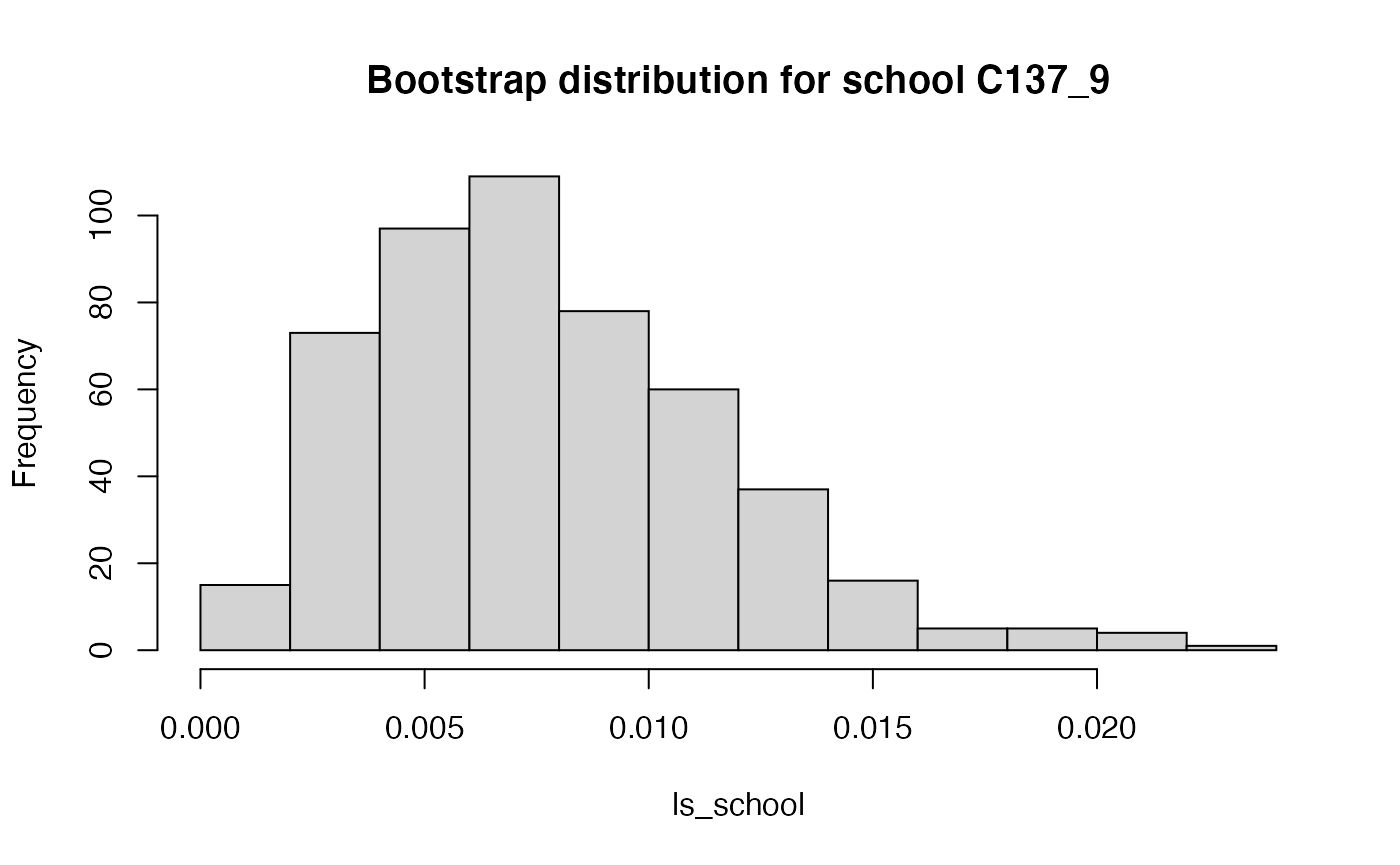
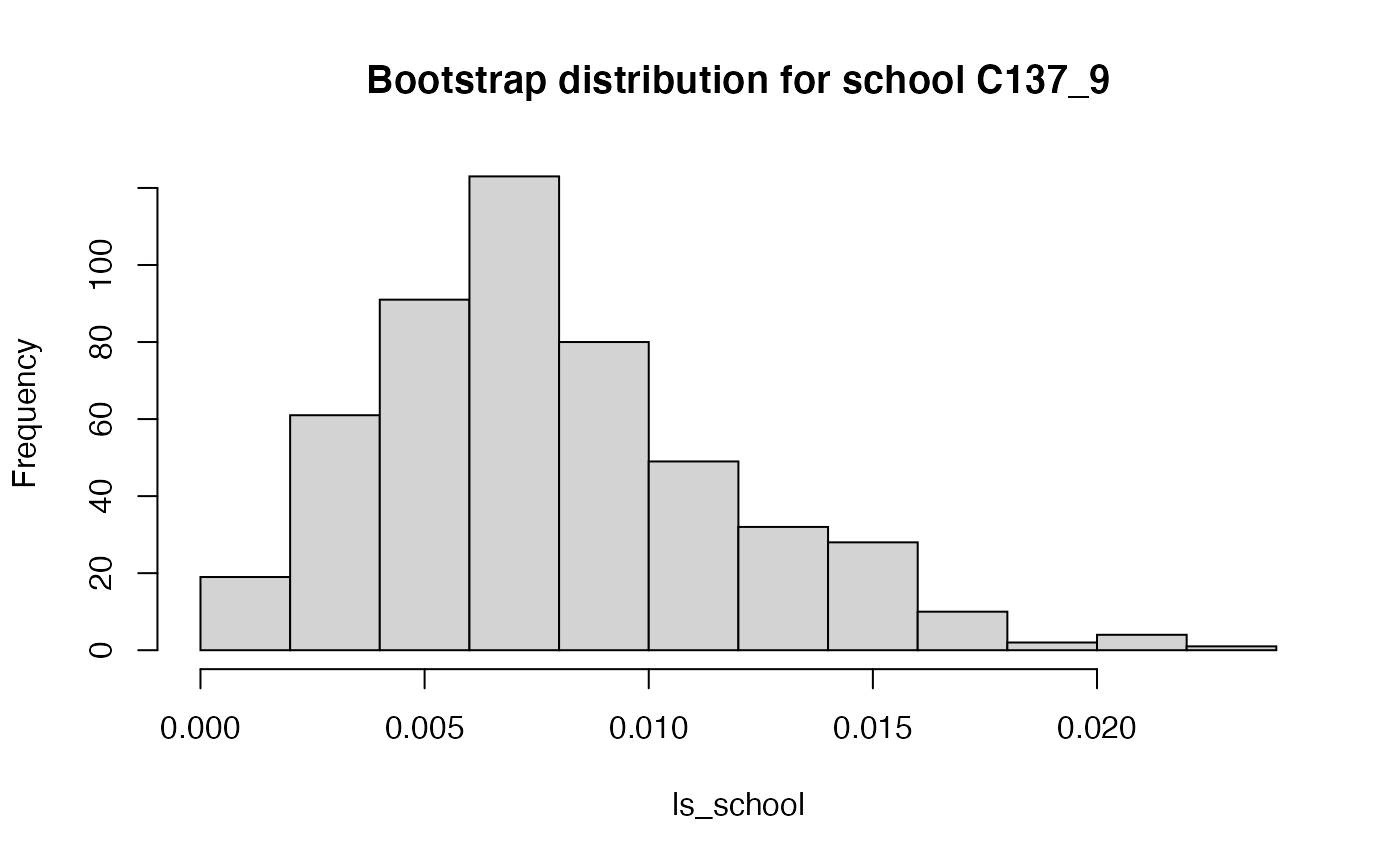
Built site for segregation: 0.5.0.9000@ca5f24f

diff --git a/articles/segregation.html b/articles/segregation.html
@@ -31,7 +31,7 @@
       </button>
       <span class="navbar-brand">
         <a class="navbar-link" href="../index.html">segregation</a>
-        <span class="version label label-default" data-toggle="tooltip" data-placement="bottom" title="Released version">0.5.0</span>
+        <span class="version label label-default" data-toggle="tooltip" data-placement="bottom" title="Released version">0.5.0.9000</span>
       </span>
     </div>
 
@@ -200,8 +200,8 @@ H(\mathbf{T})=\frac{M(\mathbf{T})}{E(\mathbf{T})},
              se <span class="op">=</span> <span class="cn">TRUE</span>, CI <span class="op">=</span> <span class="fl">.95</span>, n_bootstrap <span class="op">=</span> <span class="fl">500</span><span class="op">)</span>
 <span class="co">#&gt; 500 bootstrap iterations on 877739 observations</span>
 <span class="co">#&gt;    stat       est           se                  CI        bias</span>
-<span class="co">#&gt; 1:    M 0.4219365 0.0006977839 0.4206342,0.4233518 0.003602471</span>
-<span class="co">#&gt; 2:    H 0.4152808 0.0006828101 0.4139336,0.4165652 0.003527523</span></code></pre></div>
+<span class="co">#&gt; 1:    M 0.4219249 0.0008215082 0.4204301,0.4236512 0.003614054</span>
+<span class="co">#&gt; 2:    H 0.4152776 0.0007232846 0.4138235,0.4166678 0.003530706</span></code></pre></div>
 <p>As there a large number of observations, the standard errors are very small.</p>
 </div>
 <div id="between-within-decomposition" class="section level2">
@@ -325,17 +325,17 @@ H(\mathbf{T})=H(\mathbf{S}) + \sum_{s=1}^S \frac{E(\mathbf{T}_s)}{E(\mathbf{T})}
                     se <span class="op">=</span> <span class="cn">TRUE</span>, CI <span class="op">=</span> <span class="fl">.95</span>, n_bootstrap <span class="op">=</span> <span class="fl">500</span><span class="op">)</span><span class="op">)</span>
 <span class="co">#&gt; 500 bootstrap iterations on 877739 observations</span>
 <span class="co">#&gt;    stat       est           se                  CI        bias</span>
-<span class="co">#&gt; 1:    M 0.4219181 0.0007757262 0.4204209,0.4236163 0.003620909</span>
-<span class="co">#&gt; 2:    H 0.4152506 0.0007125006 0.4137738,0.4167469 0.003557678</span></code></pre></div>
+<span class="co">#&gt; 1:    M 0.4218982 0.0007436137 0.4202751,0.4233543 0.003640781</span>
+<span class="co">#&gt; 2:    H 0.4152451 0.0006923664 0.4139878,0.4166317 0.003563223</span></code></pre></div>
 <p>The confidence intervals are based on the percentiles from the bootstrap distribution, and hence require a large number of bootstrap iterations for valid interpretation. The estimate <code>est</code> that is reported in the results has already been “debiased”, i.e. the bias that has been estimated from the bootstrap distribution (which is reported in <code>bias</code>) has been subtracted from the usual maximum-likelihood estimate that we would obtain from <code>mutual_total</code> with <code>se = FALSE</code>. The confidence interval is centered around the debiased estimate.</p>
 <p>On balance, confidence intervals are preferred over the standard error because the bootstrap distribution can be skewed, especially when segregation is very low or very high. For this example, we can see that the standard errors provide almost identical coverage to the confidence intervals, as</p>
 <div class="sourceCode" id="cb16"><pre class="downlit sourceCode r">
 <code class="sourceCode R"><span class="co"># M</span>
 <span class="fu"><a href="https://rdrr.io/r/base/with.html">with</a></span><span class="op">(</span><span class="va">se</span>, <span class="fu"><a href="https://rdrr.io/r/base/c.html">c</a></span><span class="op">(</span><span class="va">est</span><span class="op">[</span><span class="fl">1</span><span class="op">]</span> <span class="op">-</span> <span class="fl">1.96</span> <span class="op">*</span> <span class="va">se</span><span class="op">[</span><span class="fl">1</span><span class="op">]</span>, <span class="va">est</span><span class="op">[</span><span class="fl">1</span><span class="op">]</span> <span class="op">+</span> <span class="fl">1.96</span> <span class="op">*</span> <span class="va">se</span><span class="op">[</span><span class="fl">1</span><span class="op">]</span><span class="op">)</span><span class="op">)</span>
-<span class="co">#&gt; [1] 0.4203976 0.4234385</span>
+<span class="co">#&gt; [1] 0.4204407 0.4233557</span>
 <span class="co"># H</span>
 <span class="fu"><a href="https://rdrr.io/r/base/with.html">with</a></span><span class="op">(</span><span class="va">se</span>, <span class="fu"><a href="https://rdrr.io/r/base/c.html">c</a></span><span class="op">(</span><span class="va">est</span><span class="op">[</span><span class="fl">2</span><span class="op">]</span> <span class="op">-</span> <span class="fl">1.96</span> <span class="op">*</span> <span class="va">se</span><span class="op">[</span><span class="fl">2</span><span class="op">]</span>, <span class="va">est</span><span class="op">[</span><span class="fl">2</span><span class="op">]</span> <span class="op">+</span> <span class="fl">1.96</span> <span class="op">*</span> <span class="va">se</span><span class="op">[</span><span class="fl">2</span><span class="op">]</span><span class="op">)</span><span class="op">)</span>
-<span class="co">#&gt; [1] 0.4138541 0.4166471</span></code></pre></div>
+<span class="co">#&gt; [1] 0.4138881 0.4166021</span></code></pre></div>
 <p>provide effectively the same coverage as the confidence intervals obtained from the percentile bootstrap.</p>
 <p>Whenever the bootstrap is used, the bootstrap distributions for each parameter are reported in an attribute <code>bootstrap</code> of the returned object. This can be used, for instance, to check whether the bootstrap distribution is skewed. The following code computes local segregation scores for all schools, and then shows a histogram of the bootstrap distribution for school C137_9, which has a very low local segregation score:</p>
 <div class="sourceCode" id="cb17"><pre class="downlit sourceCode r">
@@ -360,8 +360,8 @@ H(\mathbf{T})=H(\mathbf{S}) + \sum_{s=1}^S \frac{E(\mathbf{T}_s)}{E(\mathbf{T})}
 <span class="co">#&gt; 3:           diff -0.012153884</span>
 <span class="co">#&gt; 4:      additions -0.003412776</span>
 <span class="co">#&gt; 5:       removals -0.011405093</span>
-<span class="co">#&gt; 6: group_marginal  0.018550238</span>
-<span class="co">#&gt; 7:  unit_marginal -0.012391915</span>
+<span class="co">#&gt; 6: group_marginal  0.017871051</span>
+<span class="co">#&gt; 7:  unit_marginal -0.011712727</span>
 <span class="co">#&gt; 8:     structural -0.003494338</span></code></pre></div>
 <p>This method also supports inference by setting <code>se = TRUE</code>.</p>
 </div>

diff --git a/index.html b/index.html
@@ -20,7 +20,7 @@
     is a measure of segregation that is highly decomposable. The package provides
     tools to decompose the index by units and groups (local segregation),
     and by within and between terms. The package also provides a method to decompose
-    differences in segregation as described by Elbers (2021) &lt;doi:10.1177/0049124121986204&gt;
+    differences in segregation as described by Elbers (2021) &lt;doi:10.1177/0049124121986204&gt;.
     Includes standard error estimation by bootstrapping.">
 <!-- mathjax --><script src="https://cdnjs.cloudflare.com/ajax/libs/mathjax/2.7.5/MathJax.js" integrity="sha256-nvJJv9wWKEm88qvoQl9ekL2J+k/RWIsaSScxxlsrv8k=" crossorigin="anonymous"></script><script src="https://cdnjs.cloudflare.com/ajax/libs/mathjax/2.7.5/config/TeX-AMS-MML_HTMLorMML.js" integrity="sha256-84DKXVJXs0/F8OTMzX4UR909+jtl4G7SPypPavF+GfA=" crossorigin="anonymous"></script><!--[if lt IE 9]>
 <script src="https://oss.maxcdn.com/html5shiv/3.7.3/html5shiv.min.js"></script>
@@ -40,7 +40,7 @@
       </button>
       <span class="navbar-brand">
         <a class="navbar-link" href="index.html">segregation</a>
-        <span class="version label label-default" data-toggle="tooltip" data-placement="bottom" title="Released version">0.5.0</span>
+        <span class="version label label-default" data-toggle="tooltip" data-placement="bottom" title="Released version">0.5.0.9000</span>
       </span>
     </div>
 

diff --git a/news/index.html b/news/index.html
@@ -71,7 +71,7 @@
       </button>
       <span class="navbar-brand">
         <a class="navbar-link" href="../index.html">segregation</a>
-        <span class="version label label-default" data-toggle="tooltip" data-placement="bottom" title="Released version">0.5.0</span>
+        <span class="version label label-default" data-toggle="tooltip" data-placement="bottom" title="Released version">0.5.0.9000</span>
       </span>
     </div>
 
@@ -117,6 +117,11 @@
       <small>Source: <a href='https://github.com/elbersb/segregation/blob/master/NEWS.md'><code>NEWS.md</code></a></small>
     </div>
 
+    <div id="segregation-0509000" class="section level1">
+<h1 class="page-header" data-toc-text="0.5.0.9000">
+<a href="#segregation-0509000" class="anchor"></a>segregation 0.5.0.9000<small> Unreleased </small>
+</h1>
+</div>
     <div id="segregation-050" class="section level1">
 <h1 class="page-header" data-toc-text="0.5.0">
 <a href="#segregation-050" class="anchor"></a>segregation 0.5.0<small> Unreleased </small>

diff --git a/reference/mutual_difference.html b/reference/mutual_difference.html
@@ -78,7 +78,7 @@ All methods have been extended to account for missing units/groups in either dat
       </button>
       <span class="navbar-brand">
         <a class="navbar-link" href="../index.html">segregation</a>
-        <span class="version label label-default" data-toggle="tooltip" data-placement="bottom" title="Released version">0.5.0</span>
+        <span class="version label label-default" data-toggle="tooltip" data-placement="bottom" title="Released version">0.5.0.9000</span>
       </span>
     </div>
 

diff --git a/reference/segregation.html b/reference/segregation.html
@@ -75,7 +75,7 @@ and between terms. Includes standard error estimation by bootstrapping." />
       </button>
       <span class="navbar-brand">
         <a class="navbar-link" href="../index.html">segregation</a>
-        <span class="version label label-default" data-toggle="tooltip" data-placement="bottom" title="Released version">0.5.0</span>
+        <span class="version label label-default" data-toggle="tooltip" data-placement="bottom" title="Released version">0.5.0.9000</span>
       </span>
     </div>
 

diff --git a/reference/schools00.html b/reference/schools00.html
@@ -75,7 +75,7 @@ The original data can be downloaded at https://nces.ed.gov/ccd/." />
       </button>
       <span class="navbar-brand">
         <a class="navbar-link" href="../index.html">segregation</a>
-        <span class="version label label-default" data-toggle="tooltip" data-placement="bottom" title="Released version">0.5.0</span>
+        <span class="version label label-default" data-toggle="tooltip" data-placement="bottom" title="Released version">0.5.0.9000</span>
       </span>
     </div>
 

diff --git a/reference/schools05.html b/reference/schools05.html
@@ -75,7 +75,7 @@ The original data can be downloaded at https://nces.ed.gov/ccd/." />
       </button>
       <span class="navbar-brand">
         <a class="navbar-link" href="../index.html">segregation</a>
-        <span class="version label label-default" data-toggle="tooltip" data-placement="bottom" title="Released version">0.5.0</span>
+        <span class="version label label-default" data-toggle="tooltip" data-placement="bottom" title="Released version">0.5.0.9000</span>
       </span>
     </div>
 

diff --git a/reference/mutual_expected.html b/reference/mutual_expected.html
@@ -77,7 +77,7 @@ the interpretation of index scores might have to be adjusted." />
       </button>
       <span class="navbar-brand">
         <a class="navbar-link" href="../index.html">segregation</a>
-        <span class="version label label-default" data-toggle="tooltip" data-placement="bottom" title="Released version">0.5.0</span>
+        <span class="version label label-default" data-toggle="tooltip" data-placement="bottom" title="Released version">0.5.0.9000</span>
       </span>
     </div>
 

diff --git a/reference/mutual_total.html b/reference/mutual_total.html
@@ -75,7 +75,7 @@ Also see mutual_within for detailed within calculations." />
       </button>
       <span class="navbar-brand">
         <a class="navbar-link" href="../index.html">segregation</a>
-        <span class="version label label-default" data-toggle="tooltip" data-placement="bottom" title="Released version">0.5.0</span>
+        <span class="version label label-default" data-toggle="tooltip" data-placement="bottom" title="Released version">0.5.0.9000</span>
       </span>
     </div>
 

diff --git a/reference/mutual_within.html b/reference/mutual_within.html
@@ -73,7 +73,7 @@ within each category defined by within." />
       </button>
       <span class="navbar-brand">
         <a class="navbar-link" href="../index.html">segregation</a>
-        <span class="version label label-default" data-toggle="tooltip" data-placement="bottom" title="Released version">0.5.0</span>
+        <span class="version label label-default" data-toggle="tooltip" data-placement="bottom" title="Released version">0.5.0.9000</span>
       </span>
     </div>
 

diff --git a/reference/ipf.html b/reference/ipf.html
@@ -74,7 +74,7 @@ proportional fitting algorithm (IPF)." />
       </button>
       <span class="navbar-brand">
         <a class="navbar-link" href="../index.html">segregation</a>
-        <span class="version label label-default" data-toggle="tooltip" data-placement="bottom" title="Released version">0.5.0</span>
+        <span class="version label label-default" data-toggle="tooltip" data-placement="bottom" title="Released version">0.5.0.9000</span>
       </span>
     </div>
 

diff --git a/reference/matrix_to_long.html b/reference/matrix_to_long.html
@@ -74,7 +74,7 @@ the matrix will be respected." />
       </button>
       <span class="navbar-brand">
         <a class="navbar-link" href="../index.html">segregation</a>
-        <span class="version label label-default" data-toggle="tooltip" data-placement="bottom" title="Released version">0.5.0</span>
+        <span class="version label label-default" data-toggle="tooltip" data-placement="bottom" title="Released version">0.5.0.9000</span>
       </span>
     </div>
 
